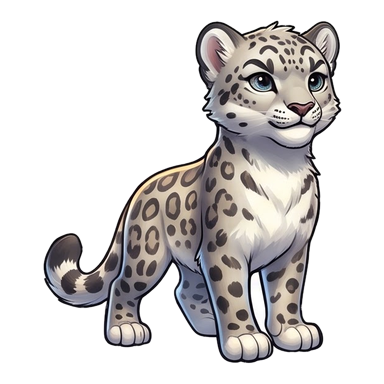
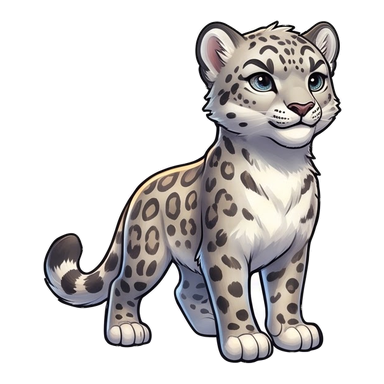
fix(leopard): حذف هالهٔ سفید لبهها با واکشی معکوس آلفا
لبههای نیمهشفاف آمیختهٔ خز و پسزمینهٔ سفید بودند و روی تم تیرهٔ اپ
یک رینگ روشن میساختند. با حل معکوس ترکیب روی سفید
(C_true = (C_obs - (1-a)·255) / a) رنگ واقعی خز برمیگردد.

اختلاف روشنایی لبه و داخل: پلهٔ ۱ از +۵۲.۷ به +۲۶.۹، پلهٔ ۲ از +۶۷.۹
به +۴۱.۸ و پلهٔ ۴ از +۵۶.۸ به +۲۱.۳ رسید (باقیمانده = خز سفید واقعی).

diff --git a/tools/rebuild_leopards.py b/tools/rebuild_leopards.py
@@ -175,6 +175,7 @@ def build(src_path, out_dir, report=False):
         alpha = compose(g['mask'], box)
         rgba = crop_color(rgb, box).resize((SIZE, SIZE), Image.LANCZOS).convert('RGBA')
         rgba.putalpha(alpha)
+        rgba = unmix_white(rgba)
         path = os.path.join(out_dir, f'stage-{i}.png')
         rgba.save(path)
         out.append((path, g, box))
@@ -195,6 +196,24 @@ def crop_color(rgb, box):
     sy1, sx1 = min(rgb.height, bottom), min(rgb.width, right)
     canvas.paste(rgb.crop((sx0, sy0, sx1, sy1)), (sx0 - left, sy0 - top))
     return canvas
+
+
+def unmix_white(rgba):
+    """حذف نشت سفیدیِ پسزمینه از لبههای نیمهشفاف (هالهٔ روشن روی تم تیره).
+
+    تصویر روی پسزمینهٔ سفید clave شده است، پس لبهها آمیختهٔ خز و سفیدند:
+        C_obs = a * C_true + (1 - a) * 255
+    با حل معکوس، رنگ واقعیِ خز برمیگردد و هالهٔ سفید از بین میرود.
+    """
+    import numpy as np
+    arr = np.asarray(rgba).astype(np.float32)
+    alpha = arr[..., 3:4] / 255.0
+    edge = (alpha > 0.02) & (alpha < 0.99)
+    if edge.any():
+        safe = np.clip(alpha, 0.02, 1.0)
+        fixed = (arr[..., :3] - (1.0 - safe) * 255.0) / safe
+        arr[..., :3] = np.where(edge[..., 0:1], np.clip(fixed, 0, 255), arr[..., :3])
+    return Image.fromarray(arr.round().astype(np.uint8), 'RGBA')
 
 
 def box_for(mask, size=SIZE, margin=MARGIN):
